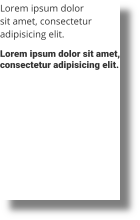
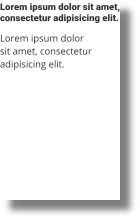
Keep the order of fonts when parsing a font family
The order of the fonts in a font family matters, as Android will pick
the first one that matches when figuring out which font to use.

Bug: 120548769
Test: tests updated

Changed region(s): [[0.0, 0.0, 0.8571, 0.1909], [0.0, 0.2182, 0.8571, 0.3273]]

diff --git a/android/testSrc/com/android/tools/idea/fonts/FontFamilyParserTest.java b/android/testSrc/com/android/tools/idea/fonts/FontFamilyParserTest.java
@@ -47,7 +47,7 @@ public class FontFamilyParserTest extends UsefulTestCase {
     QueryParser.ParseResult result = FontFamilyParser.parseFontFamily(createXmlFile(xml));
     assertThat(result).isInstanceOf(FontFamilyParser.CompoundFontResult.class);
     FontFamilyParser.CompoundFontResult compoundResult = (FontFamilyParser.CompoundFontResult)result;
-    assertThat(compoundResult.getFonts().keySet()).containsExactly("@font/a_bee_zee_regular", "@font/a_bee_zee_italics");
+    assertThat(compoundResult.getFonts().keySet()).containsExactly("@font/a_bee_zee_regular", "@font/a_bee_zee_italics").inOrder();
     MutableFontDetail regular = compoundResult.getFonts().get("@font/a_bee_zee_regular");
     MutableFontDetail italics = compoundResult.getFonts().get("@font/a_bee_zee_italics");
 
@@ -138,7 +138,7 @@ public class FontFamilyParserTest extends UsefulTestCase {
     assertThat(downloadableResult.getAuthority()).isEqualTo("com.google.android.gms.fonts");
 
     Multimap<String, MutableFontDetail> fonts = downloadableResult.getFonts();
-    assertThat(fonts.keys()).containsExactly("Aladin", "Roboto", "Roboto");
+    assertThat(fonts.keys()).containsExactly("Roboto", "Roboto", "Aladin").inOrder();
     assertThat(fonts).hasSize(3);
 
     MutableFontDetail aladin = fonts.get("Aladin").iterator().next();

diff --git a/android/testSrc/com/android/tools/idea/fonts/ProjectFontsTest.java b/android/testSrc/com/android/tools/idea/fonts/ProjectFontsTest.java
@@ -71,10 +71,10 @@ public class ProjectFontsTest extends FontTestCase {
 
     assertThat(family.getFonts().size()).isEqualTo(2);
 
-    assertFontDetail(family.getFonts().get(0), "fonta", "Regular", 400, 100, false,
-                     FILE_PROTOCOL_START + PathUtil.toSystemDependentName(fileA.getPath()), new File(fileA.getPath()));
-    assertFontDetail(family.getFonts().get(1), "fontb", "Regular Italic", 400, 100, true,
+    assertFontDetail(family.getFonts().get(0), "fontb", "Regular Italic", 400, 100, true,
                      FILE_PROTOCOL_START + PathUtil.toSystemDependentName(fileB.getPath()), new File(fileB.getPath()));
+    assertFontDetail(family.getFonts().get(1), "fonta", "Regular", 400, 100, false,
+                     FILE_PROTOCOL_START + PathUtil.toSystemDependentName(fileA.getPath()), new File(fileA.getPath()));
   }
 
   public void testCompoundFamilyFileWithCircularReferences() {

diff --git a/android/testSrc/com/android/tools/idea/rendering/parsers/LayoutPullParsersTest.java b/android/testSrc/com/android/tools/idea/rendering/parsers/LayoutPullParsersTest.java
@@ -258,7 +258,7 @@ public class LayoutPullParsersTest extends AndroidTestCase {
       "<TextView",
       "    layout_width=\"wrap_content\"",
       "    layout_height=\"wrap_content\"",
-      "    fontFamily=\"@font/fonta\"",
+      "    fontFamily=\"@font/fontb\"",
       "    paddingBottom=\"20dp\"",
       "    text=\"Lorem ipsum dolor sit amet, consectetur adipisicing elit.\"",
       "    textColor=\"" + labelColor + "\"",
@@ -267,7 +267,7 @@ public class LayoutPullParsersTest extends AndroidTestCase {
       "<TextView",
       "    layout_width=\"wrap_content\"",
       "    layout_height=\"wrap_content\"",
-      "    fontFamily=\"@font/fontb\"",
+      "    fontFamily=\"@font/fonta\"",
       "    paddingBottom=\"20dp\"",
       "    text=\"Lorem ipsum dolor sit amet, consectetur adipisicing elit.\"",
       "    textColor=\"" + labelColor + "\"",

diff --git a/android/src/com/android/tools/idea/fonts/FontFamilyParser.java b/android/src/com/android/tools/idea/fonts/FontFamilyParser.java
@@ -29,7 +29,7 @@ import javax.xml.parsers.SAXParser;
 import javax.xml.parsers.SAXParserFactory;
 import java.io.File;
 import java.io.IOException;
-import java.util.HashMap;
+import java.util.LinkedHashMap;
 import java.util.Map;
 
 import static com.android.SdkConstants.ANDROID_URI;
@@ -188,7 +188,7 @@ class FontFamilyParser {
     private Map<String, MutableFontDetail> myFonts;
 
     CompoundFontResult() {
-      myFonts = new HashMap<>();
+      myFonts = new LinkedHashMap<>();
     }
 
     @NotNull

diff --git a/android/src/com/android/tools/idea/fonts/ProjectFonts.java b/android/src/com/android/tools/idea/fonts/ProjectFonts.java
@@ -194,7 +194,6 @@ public class ProjectFonts {
       best = new FontDetail(best, wanted);
       fonts.add(best);
     }
-    fonts.sort(Comparator.comparing(font -> font.getFamily().getName()));
     return createCompoundFamily(name, fonts);
   }
 
